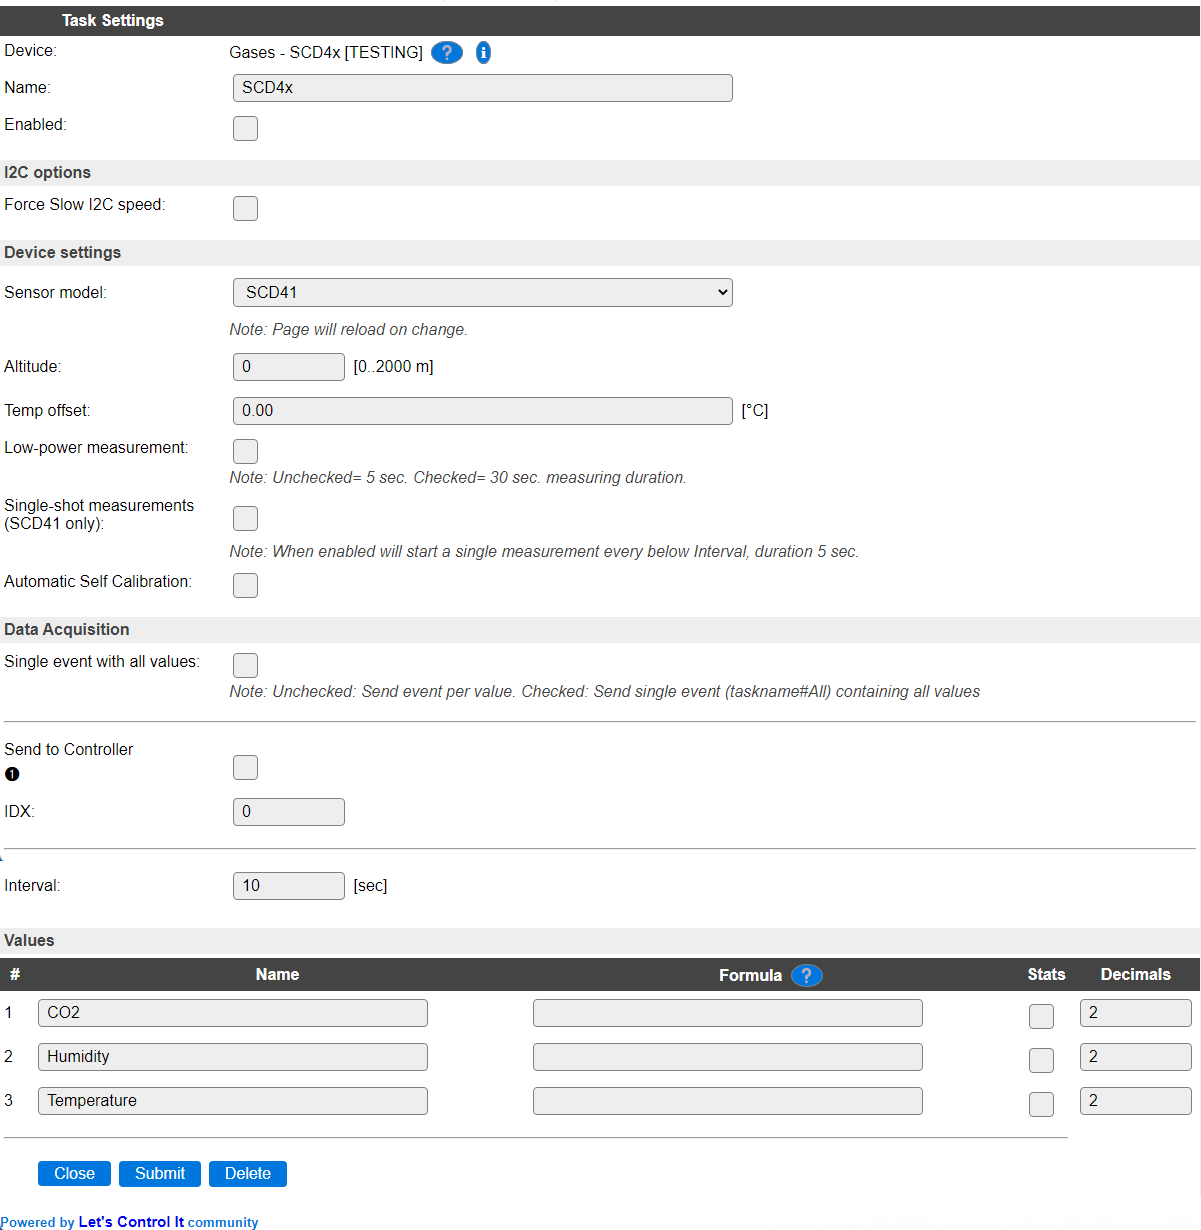
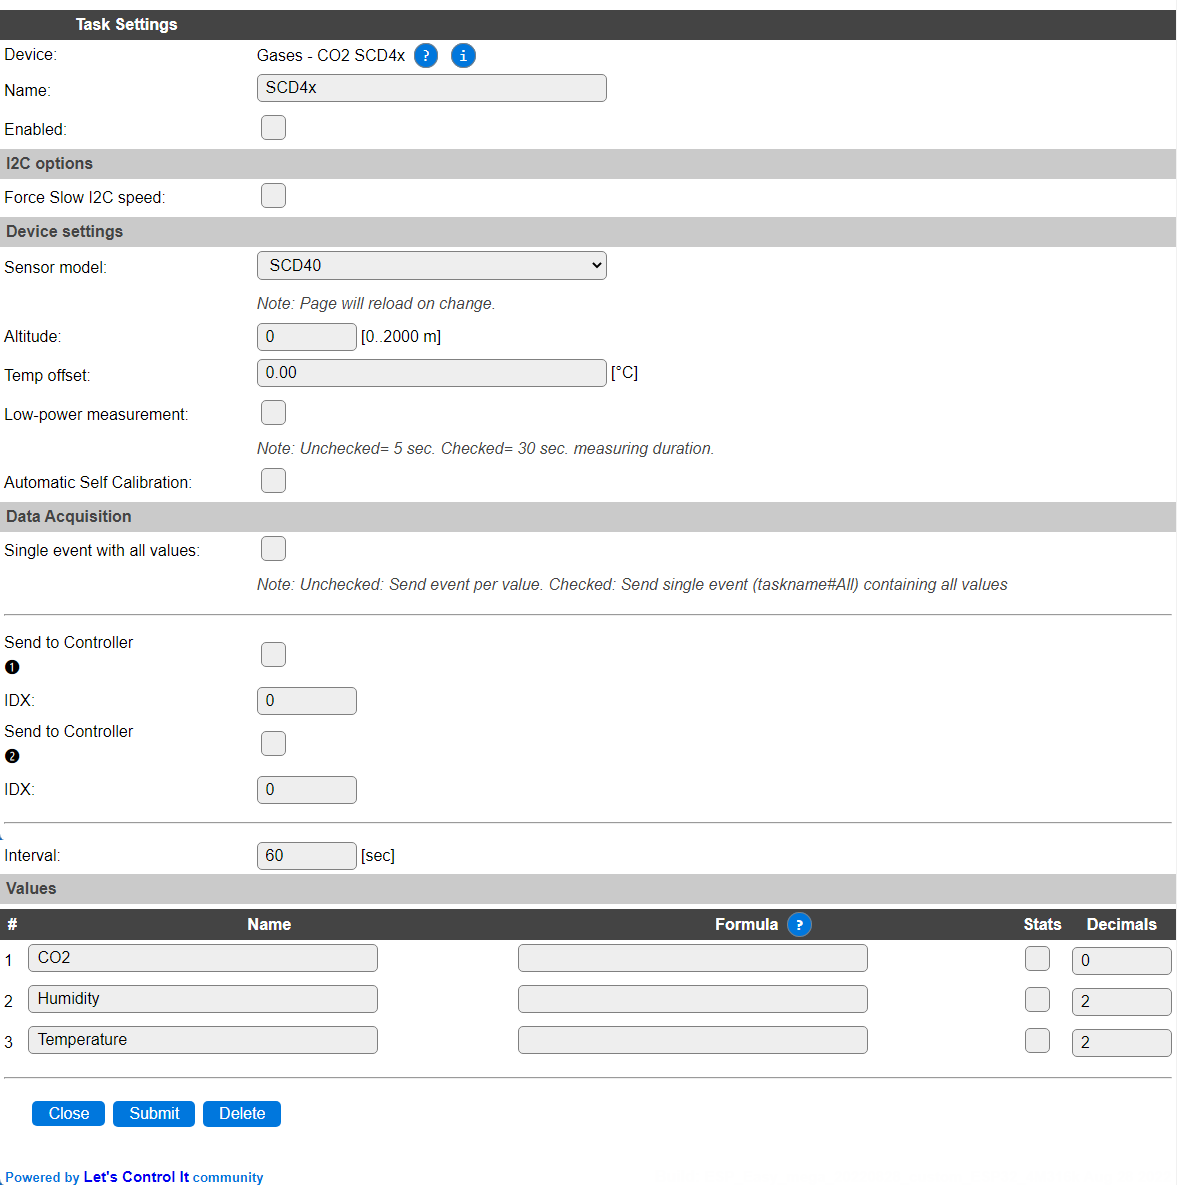
[P135] Change plugin name to include 'CO2', in line with other CO2 plugins, update and corrections for documentation

diff --git a/docs/source/Plugin/P135.rst b/docs/source/Plugin/P135.rst
@@ -24,9 +24,9 @@ Used libraries: |P135_usedlibraries|
 Description
 -----------
 
-The SCD40 and SDC41 are CO2 sensor units that also provide Humidity and Temperature measurement, support auto-calibration, and has temperature and altitude compensation settings. Using low-power operation the measurements will be available slower, but average power usage will be much lower.
+The SCD40 and SCD41 are CO2 sensor units that also provide Humidity and Temperature measurement, support auto-calibration, and have temperature and altitude compensation settings. By using the low-power operation option the measurements will be available slower, but average power usage will be much lower.
 
-The SDC41 also supports single-shot measurements, to enable really low averasge power consumption as it will enter a power-saving state when not measuring.
+The SCD41 measures CO2 values up to 5000 ppm (SCD40 up to 2000 ppm), and also supports single-shot measurement, to enable really low average power consumption as it will enter a power-saving state when not measuring.
 
 Configuration
 -------------
@@ -49,14 +49,14 @@ The available settings here depend on the build used. At least the **Force Slow 
 Device Settings
 ^^^^^^^^^^^^^^^
 
-* **Device model**: Select the sensor model used, available options:
+* **Sensor model**: Select the sensor model used, available options:
 
 .. image:: P135_SensorModelOptions.png
   :alt: Sensor model options
 
-* *SDC40* The default, 'basic', sensor model, that does not support Single-shot measurements (might show values when configured, but the values are undefined).
+* *SCD40* The default, 'basic', sensor model, that can measure CO2 up to 2000 ppm and does not support Single-shot measurements (might show values when configured, but the values are undefined).
 
-* *SCD41* The 'advanced' model that supports Single-shot measurements.
+* *SCD41* The 'advanced' model that supports measuring CO2 up to 5000 ppm and Single-shot measurements.
 
 When this setting is changed, the page is saved and reloaded to show/hide the extra setting to enable **Single-shot measurements (SCD41 only)**.
 
